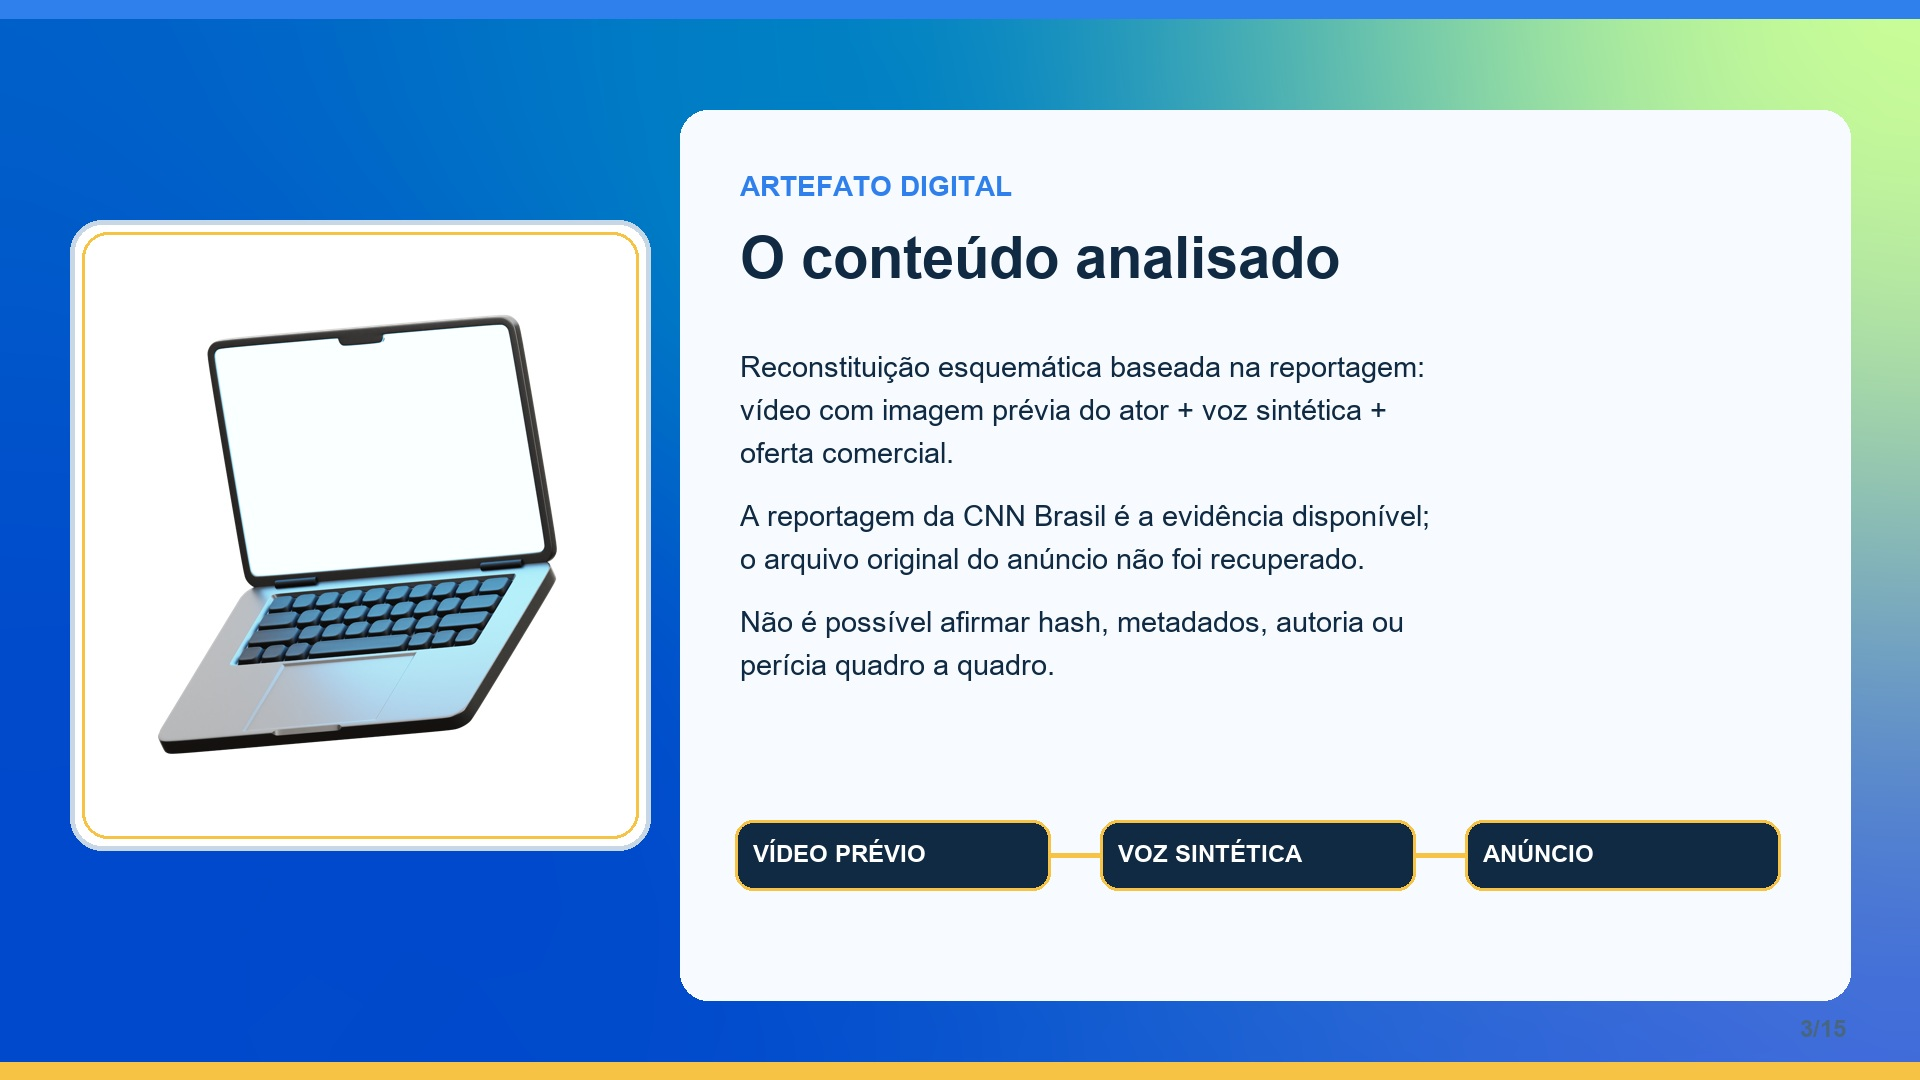
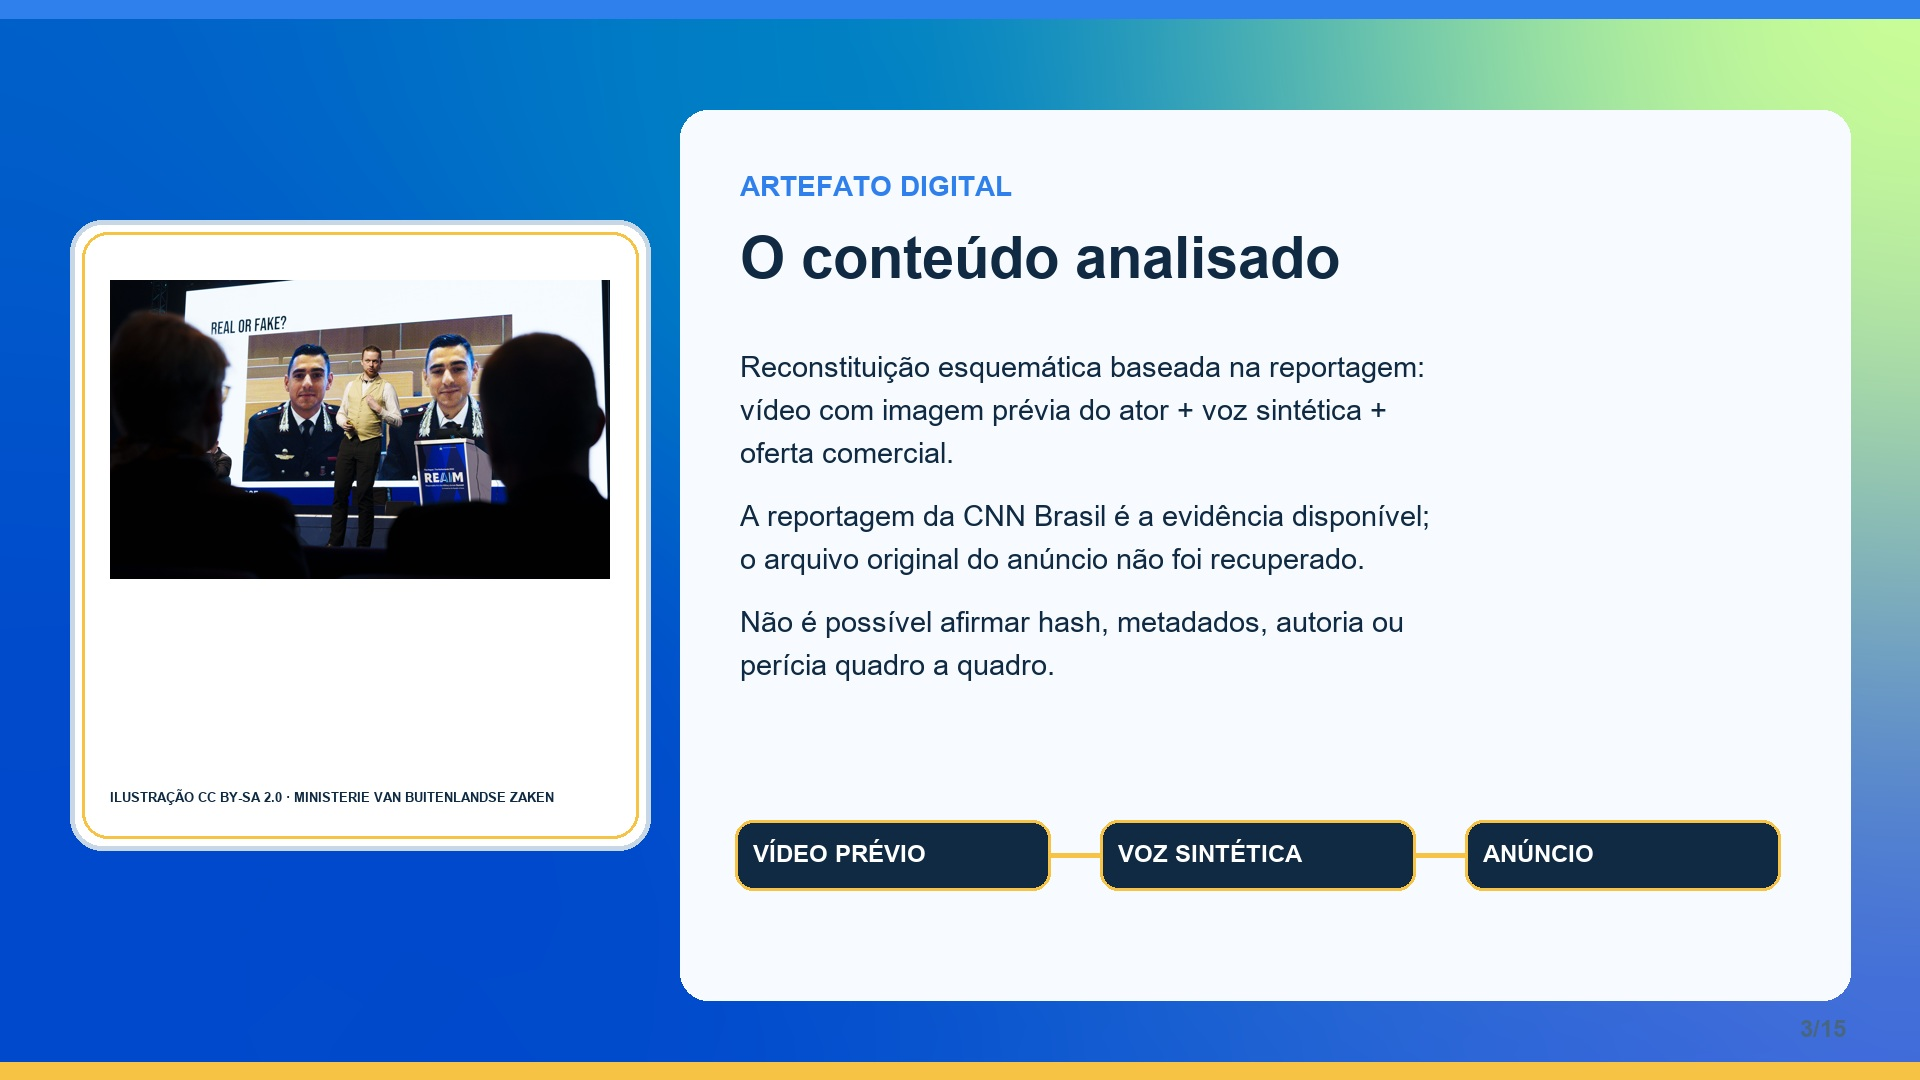
feat: adicionar imagem deepfake sob licenca aberta

Changed region(s): [[0.0312, 0.2444, 0.3438, 0.7028], [0.0625, 0.7333, 0.2812, 0.7639]]

diff --git a/scripts/generate_n3_jpgs.py b/scripts/generate_n3_jpgs.py
@@ -6,7 +6,7 @@ F='/Windows/Fonts/arial.ttf'; B='/Windows/Fonts/arialbd.ttf'; font=lambda n,b=Fa
 S=[
 ('CAPA','Deepfake em publicidade',['Maratona Tech 2026 · Nível 3','Caso brasileiro: uso não autorizado de imagem e voz sintética atribuído a Marcos Palmeira.'],'template-capa-002.png'),
 ('PROBLEMA DIGITAL','Qual é o problema?',['Publicidade digital pode simular o endosso de uma pessoa real usando IA.','O caso circulou no Instagram e promovia um kit de ferramentas.','Relevância: imagem, voz, confiança e possível pagamento são envolvidos.'],'template-icones-ilustracoes-106.png'),
-('ARTEFATO DIGITAL','O conteúdo analisado',['Reconstituição esquemática baseada na reportagem: vídeo com imagem prévia do ator + voz sintética + oferta comercial.','A reportagem da CNN Brasil é a evidência disponível; o arquivo original do anúncio não foi recuperado.','Não é possível afirmar hash, metadados, autoria ou perícia quadro a quadro.'],'template-icones-ilustracoes-008.png'),
+('ARTEFATO DIGITAL','O conteúdo analisado',['Reconstituição esquemática baseada na reportagem: vídeo com imagem prévia do ator + voz sintética + oferta comercial.','A reportagem da CNN Brasil é a evidência disponível; o arquivo original do anúncio não foi recuperado.','Não é possível afirmar hash, metadados, autoria ou perícia quadro a quadro.'],'visual-deepfake-cc-by-sa-2.0.jpg'),
 ('PERFIL PROFISSIONAL','Quem pode ajudar?',['Jornalista de verificação e pesquisador de segurança digital: localizam a origem, comparam fontes, preservam evidências e explicam limites.','A atuação combina comunicação, pensamento computacional, proteção de dados e responsabilidade pública.'],'template-icones-ilustracoes-007.png'),
 ('RELATÓRIO TÉCNICO · 1','Descrição do problema digital',['O ator afirmou à CNN Brasil que sua imagem foi usada sem autorização em um golpe publicitário com IA.','Onde: perfil no Instagram. Quem foi impactado primeiro: o titular da imagem e usuários expostos ao anúncio.','Fonte: CNN Brasil, 08 jun. 2024.'],'template-icones-ilustracoes-018.png'),
 ('RELATÓRIO TÉCNICO · 2','Identificação da causa-raiz',['Causa-raiz provável: combinação de mídia sintética, identidade pública reutilizável, distribuição algorítmica e incentivo econômico ao clique.','Fatores do modelo N3: uso indevido de IA, busca por engajamento, falta de verificação e desinformação intencional.','Autoria do golpe permanece hipótese.'],'template-icones-ilustracoes-026.png'),
@@ -14,7 +14,7 @@ S=[
 ('RELATÓRIO TÉCNICO · 4','Fundamentação da análise',['Dados pessoais: imagem e voz identificáveis.','Conceitos: deepfake, alteração intencional, algoritmo, rastro digital e desinformação ampliada.','Base: Mirsky e Lee (2021); Vaccari e Chadwick (2020); Rößler et al. (2019); LGPD (Brasil, 2018).'],'template-icones-ilustracoes-075.png'),
 ('RELATÓRIO TÉCNICO · 5','Recomendações públicas',['Usuário: não pagar nem informar dados; confirmar em canal oficial; guardar URL e denunciar.','Escola: ensinar triangulação, cadeia de evidências e proteção da imagem/voz.','Plataforma: revisar anúncios, preservar evidências, rotular mídia sintética e responder às denúncias.'],'template-icones-ilustracoes-040.png'),
 ('CAMPANHA · 1','Público e linguagem',['Público: estudantes, famílias e comunidade escolar.','Linguagem: direta, não sensacionalista, visual e acessível.','Mensagem central: rosto conhecido não é prova de autorização.'],'template-icones-ilustracoes-100.png'),
-('CAMPANHA · 2','Explicação técnica simplificada',['Deepfake é conteúdo audiovisual alterado ou criado com IA para parecer que uma pessoa disse ou fez algo.','No caso, a aparência de fala foi associada a uma oferta comercial que o ator declarou não ter autorizado.'],'template-icones-ilustracoes-008.png'),
+('CAMPANHA · 2','Explicação técnica simplificada',['Deepfake é conteúdo audiovisual alterado ou criado com IA para parecer que uma pessoa disse ou fez algo.','No caso, a aparência de fala foi associada a uma oferta comercial que o ator declarou não ter autorizado.'],'visual-deepfake-cc-by-sa-2.0.jpg'),
 ('CAMPANHA · 3','Impactos destacados',['Fraude econômica, coleta indevida de dados, desinformação e perda de confiança.','A campanha orienta sem culpar vítimas e sem expor dados pessoais.'],'template-icones-ilustracoes-106.png'),
 ('CAMPANHA · 4','Peça visual da campanha',['PARE · CONFIRME · DENUNCIE','1. Pause antes de clicar. 2. Confirme no canal oficial. 3. Não forneça dados. 4. Denuncie e preserve o link.','Peça de conscientização; não é anúncio real.'],'template-icones-ilustracoes-040.png'),
 ('CONCLUSÃO','Aprendizados principais',['Fato, evidência, inferência e hipótese precisam ser separados.','Imagem e voz podem ser reutilizadas para fabricar autoridade.','A resposta mais segura é confirmação independente antes de compartilhar ou pagar.'],'template-capa-002.png'),
@@ -37,5 +37,6 @@ for i,(k,t,ps,img) in enumerate(S,1):
   for line in textwrap.wrap(p,52):d.text((740,y),line,font=font(29),fill=(16,42,67));y+=43
   y+=20
  diagram(d,i)
+ if img.startswith('visual-'): d.text((110,790),'ILUSTRAÇÃO CC BY-SA 2.0 · MINISTERIE VAN BUITENLANDSE ZAKEN',font=font(13,1),fill=(16,42,67))
  d.text((1800,1015),f'{i}/15',font=font(24,1),fill=(72,102,129));im.save(O/f'slide-{i:02d}.jpg',quality=94,optimize=True)
 

diff --git a/docs/visual-evidence-sources.md b/docs/visual-evidence-sources.md
@@ -13,6 +13,8 @@ Até a revisão de 17 set. 2026, não foi encontrada fotografia ou gravação do
 
 - **Wikimedia Commons — Deepfake.jpg:** ilustração conceitual licenciada em Creative Commons Attribution-ShareAlike 2.0. Pode ser reutilizada com atribuição e compartilhamento pela mesma licença. Uso no projeto: explicar a técnica, nunca representar o anúncio real ou atribuir a imagem a Marcos Palmeira. <https://commons.wikimedia.org/wiki/File:Deepfake.jpg>
 
+O arquivo local `assets/visual-deepfake-cc-by-sa-2.0.jpg` é uma cópia dessa obra licenciada. Crédito aplicado nos slides: “Ministerie van Buitenlandse Zaken, Deepfake.jpg, CC BY-SA 2.0, via Wikimedia Commons; adaptação de layout pelo projeto”.
+
 ## Regra de apresentação
 
 O slide deve rotular cada visual como `FOTO DA REPORTAGEM`, `ILUSTRAÇÃO LICENCIADA`, `DIAGRAMA AUTORAL` ou `EVIDÊNCIA NÃO RECUPERADA`. A fonte deve aparecer junto ao visual. Não se deve apresentar uma ilustração genérica como captura do golpe nem uma fotografia jornalística como prova de autoria.
